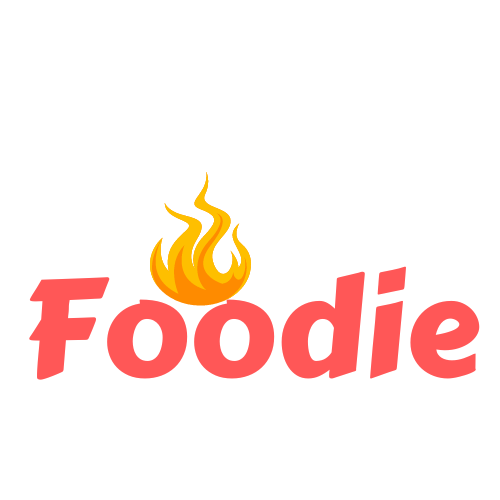
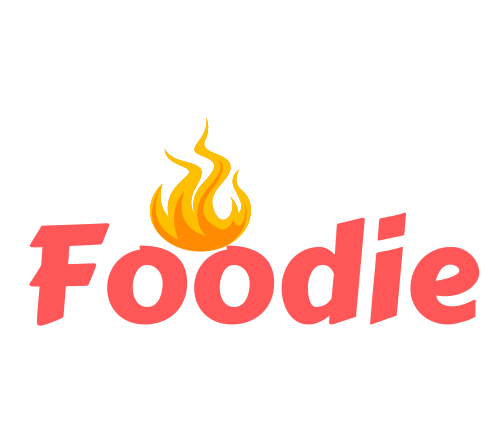
configure

Changed region(s): [[0.06, 0.2623, 0.96, 0.7578]]

diff --git a/src/components/Header.js b/src/components/Header.js
@@ -4,7 +4,7 @@ import useOnlineStatus from "../utils/useOnlineStatus";
 import userContext from "../utils/userContext";
 import { useSelector } from "react-redux";
 import logo from '../utils/logo_2.png';
-import foodie from '../utils/Foodie.png';
+import foodie from '../utils/Foodie3.png';
 import Cart from '../utils/cart.png';
 
 const Header = () => {
@@ -23,10 +23,10 @@ const cartItems = useSelector((store) => store.cart.items);
 //console.log(cartItems);
 
 return (
-    <div className="flex h-16 justify-between shadow-lg px-8">
+    <div className="flex h-16 justify-between shadow-lg shadow- shadow-orange-200  px-8">
         <div className="flex items-center">
             <img className="h-14" src={logo} alt="Logo" />
-            <img className="h-20 mb-4" src={foodie} alt="Foodie" />
+            <img className=" mb-4" style={{height: '76px'}} src={foodie} alt="Foodie" />
         </div>
         <div className="flex items-center">
             <ul className="hidden md:flex p-0 m-0"> {/* Hidden on small screens */}
